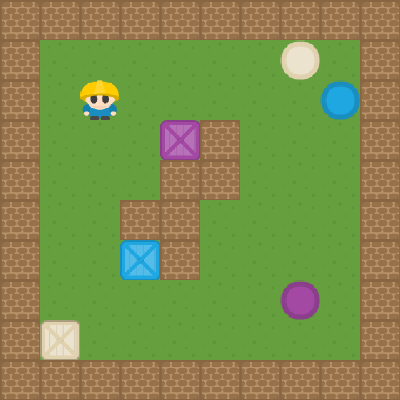
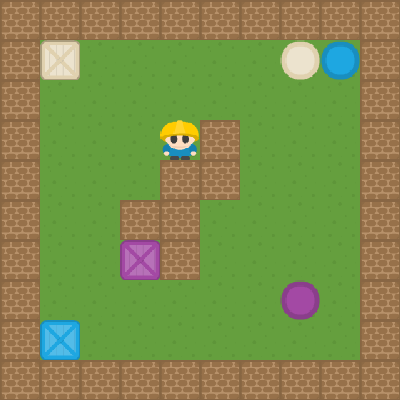
fixed draw_map

diff --git a/boxman_dts/draw_map.py b/boxman_dts/draw_map.py
@@ -13,7 +13,7 @@ if __name__ == '__main__':
                        'crate_blue': (1, 1),
                        'crate_purple': (8, 1),
                        'circle_blue': (1, 8)}
-    env = WarpFrame(CollectEnv(start_positions=start_positions, changePlayerPos=False,
+    env = WarpFrame(CollectEnv(start_positions=start_positions,
                                goal_condition=lambda x: x.colour == 'purple' or x.colour == 'blue'))
 
     env.reset()
